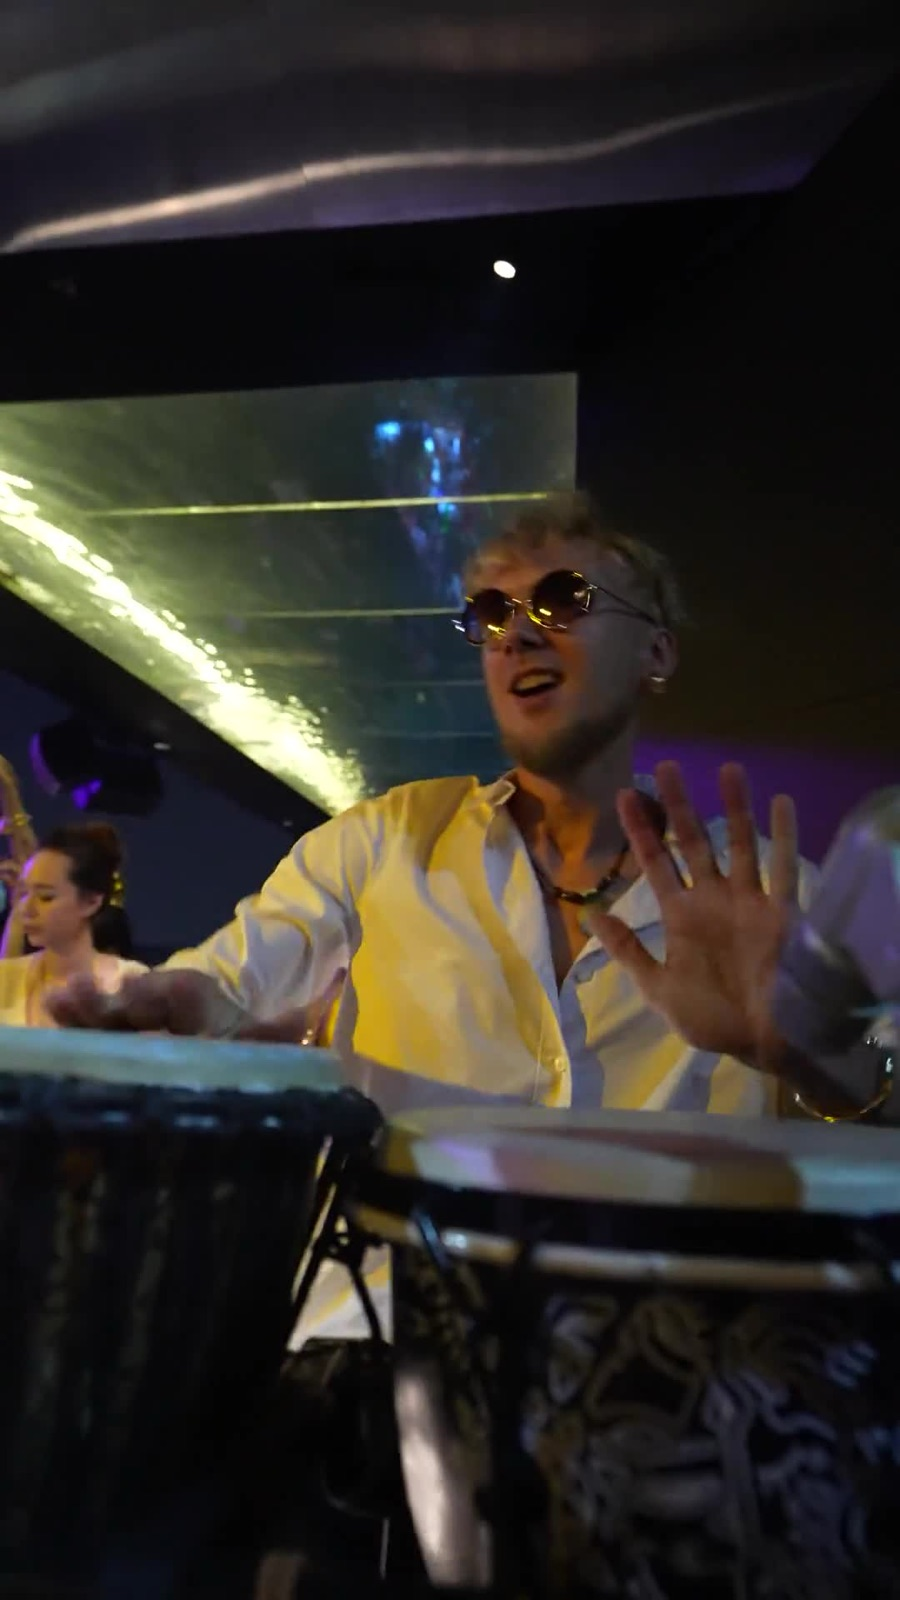
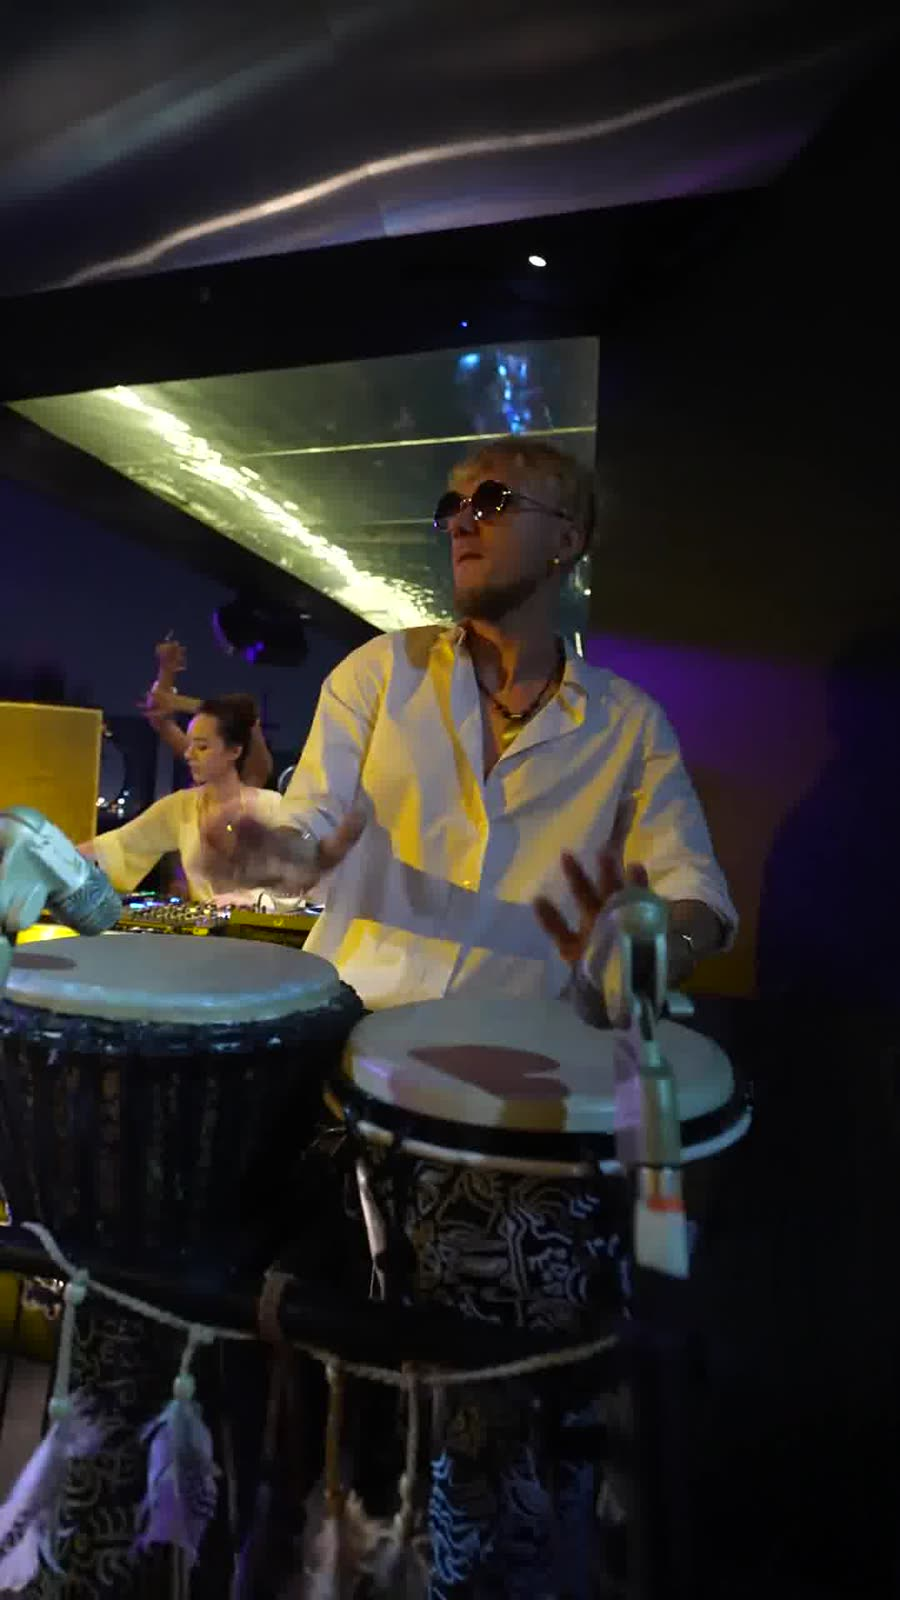
Фикс: видео на первом экране не запускалось само, постер был смазан
Добавлен JS-дожим play() при загрузке и по первому касанию/скроллу -
атрибут autoplay иногда не срабатывает сам (подтверждено тестом).
Постер заменён на резкий кадр вместо смазанного в движении.

diff --git a/index.html b/index.html
@@ -227,10 +227,22 @@
 <!-- 1. HERO -->
 <section class="hero">
   <div class="hero-media">
-    <video autoplay muted loop playsinline poster="assets/photos/hero-poster.jpg">
+    <video id="heroVideo" autoplay muted loop playsinline poster="assets/photos/hero-poster.jpg">
       <source src="assets/video/IMG_4442.mp4" type="video/mp4">
     </video>
   </div>
+  <script>
+  (function(){
+    var v = document.getElementById('heroVideo');
+    var tryPlay = function(){ v.play().catch(function(){}); };
+    tryPlay();
+    v.addEventListener('canplay', tryPlay, {once:true});
+    v.addEventListener('loadeddata', tryPlay, {once:true});
+    ['touchstart','scroll','click'].forEach(function(evt){
+      document.addEventListener(evt, tryPlay, {once:true, passive:true});
+    });
+  })();
+  </script>
   <div class="wrap hero-content">
     <span class="eyebrow">Afro House · Live Percussion</span>
     <h1>He doesn't play behind the DJ. He plays with the room</h1>
